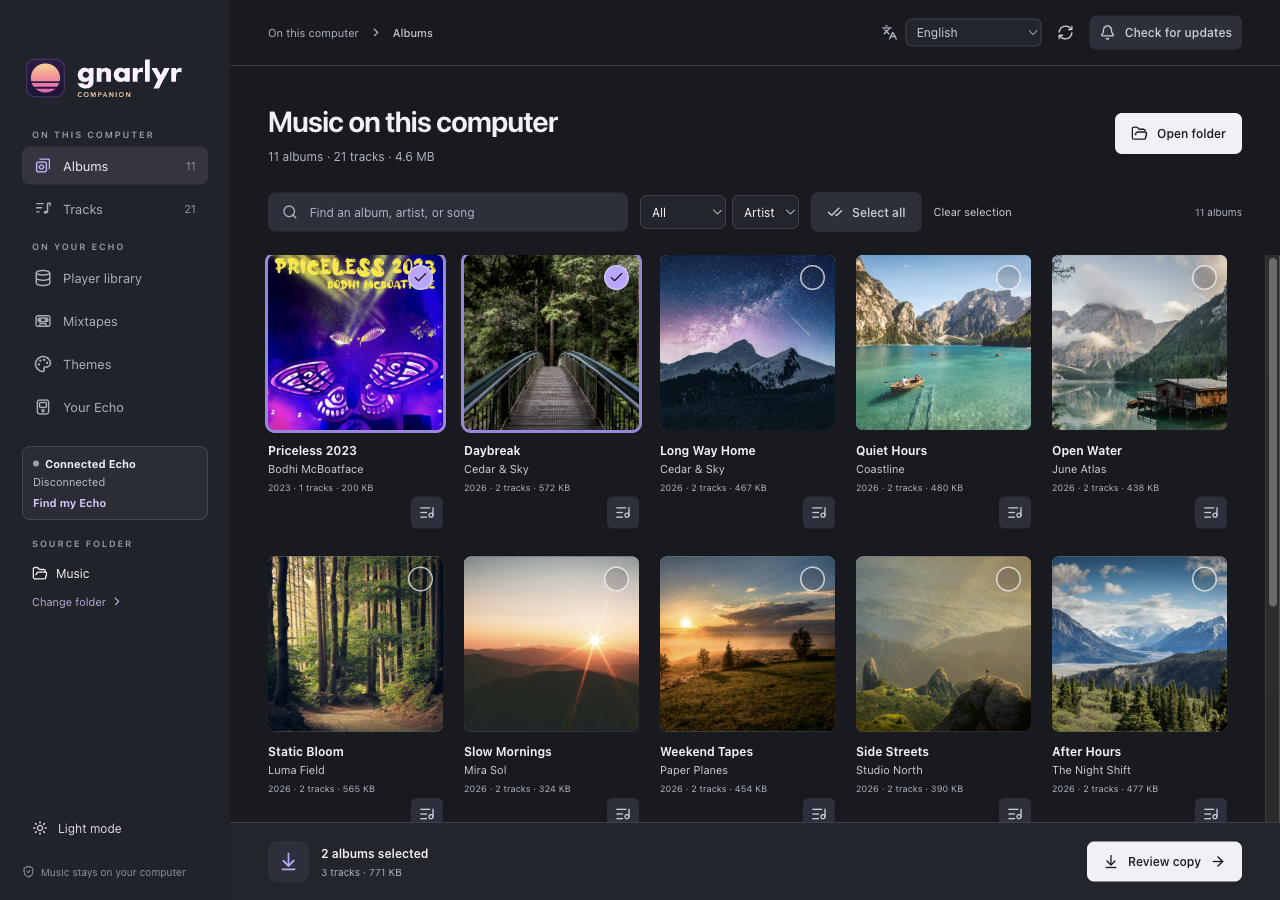
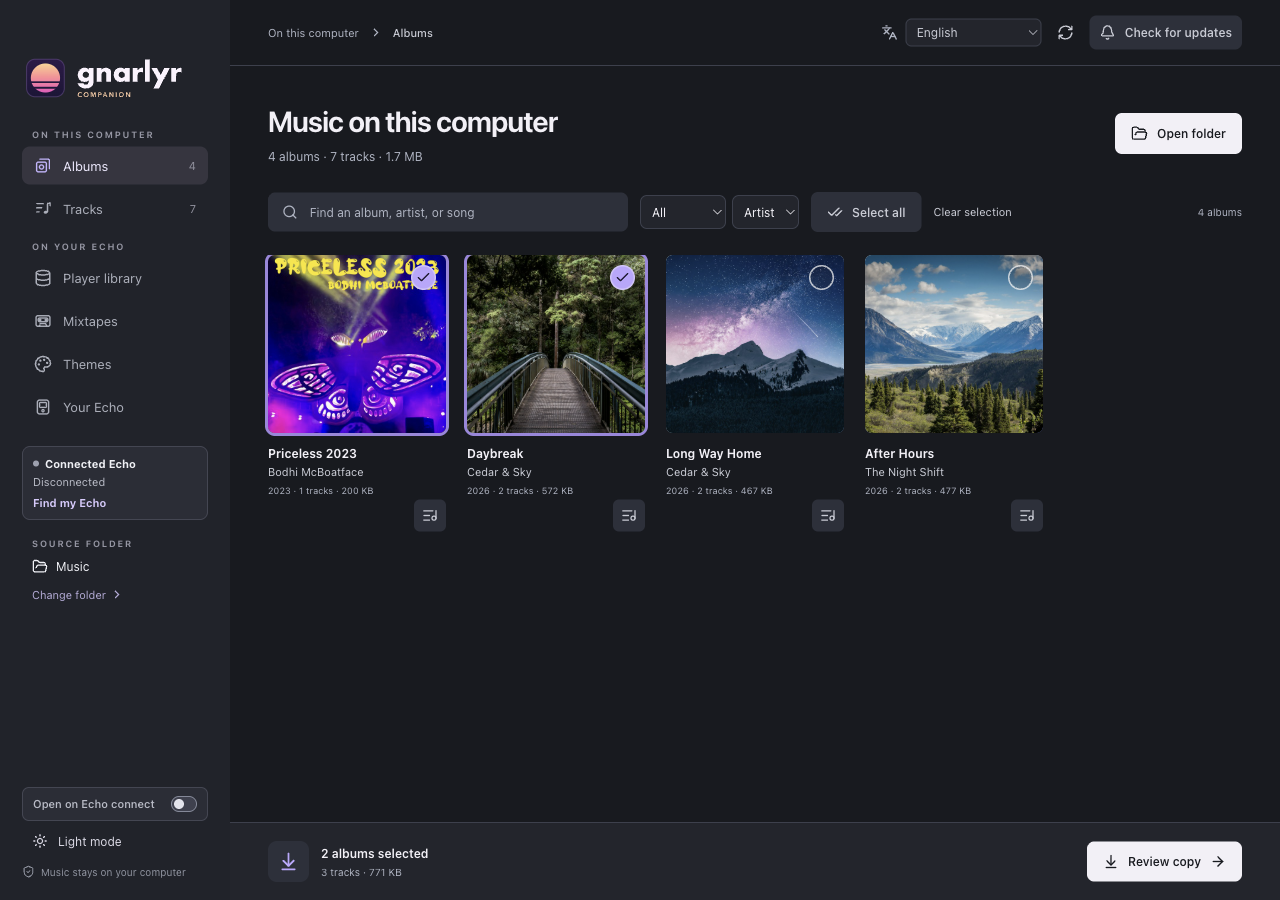
Refresh website screenshots for Gnarlyr Companion

diff --git a/site/companion.html b/site/companion.html
@@ -3,8 +3,8 @@
 <script src="analytics.js" defer data-website-id="7776169d-25f5-4420-bed8-810b4fbacdc7" data-domain="gnarlyr.com" data-paths="/,/index.html,/firmware.html,/docs.html,/hardware.html,/companion.html,/install.html,/build.html,/recovery.html,/languages.html,/themes.html,/comparison.html"></script>
 <meta property="og:site_name" content="Gnarlyr">
 <meta property="og:locale" content="en_US">
-<meta property="og:image" content="https://gnarlyr.com/assets/social/companion-3d170fef4d89.png">
-<meta property="og:image:secure_url" content="https://gnarlyr.com/assets/social/companion-3d170fef4d89.png">
+<meta property="og:image" content="https://gnarlyr.com/assets/social/companion-de9c5af4bb15.png">
+<meta property="og:image:secure_url" content="https://gnarlyr.com/assets/social/companion-de9c5af4bb15.png">
 <meta property="og:image:type" content="image/png">
 <meta property="og:image:width" content="1200">
 <meta property="og:image:height" content="630">
@@ -12,7 +12,7 @@
 <meta name="twitter:card" content="summary_large_image">
 <meta name="twitter:title" content="Gnarlyr Companion desktop app">
 <meta name="twitter:description" content="Browse local albums, review verified copies, make mixtapes, and manage the full-size ECHO&#x27;s library, settings, languages, and firmware.">
-<meta name="twitter:image" content="https://gnarlyr.com/assets/social/companion-3d170fef4d89.png">
+<meta name="twitter:image" content="https://gnarlyr.com/assets/social/companion-de9c5af4bb15.png">
 <meta name="twitter:image:alt" content="Gnarlyr Companion. The Gnarlyr Companion album browser.">
 </head><body class="companion-page"><a class="skip" href="#main">Skip to content</a><header class="header wrap">    <a class="brand" href="index.html" aria-label="Gnarlyr home">
       <img class="brand-mark" src="assets/brand/sunset-disc.svg" width="32" height="32" alt="" aria-hidden="true">
@@ -32,7 +32,7 @@
 <section class="doc-section" id="first-install" aria-labelledby="first-install-title"><h2 id="first-install-title">Install Gnarlyr from FiiO firmware</h2><p class="intro">For a Snowsky ECHO running FiiO firmware, open Your Echo → Installing Gnarlyr for the first time?</p><figure class="desktop-figure"><a class="desktop-shot" href="assets/companion/first-install.png" aria-label="Open companion first-install preparation at full size"><img src="assets/companion/first-install.png" width="1280" height="900" loading="lazy" decoding="async" alt="Gnarlyr Companion first-install preparation for a Snowsky ECHO running FiiO firmware"></a><figcaption>Prepare the firmware copy before restarting the player · select image to enlarge</figcaption></figure><p>Charge the player, back up its internal files, and connect it in USB storage mode. Choose a trusted <code>ECHOECHO.img</code> and review the detected player. On macOS, the app makes a contiguous copy, verifies it before and after remounting, and ejects the player’s drives.</p><p>On Windows and Linux, the beta checks the copied file and leaves ejection to you. The contiguous-copy and remount checks are available on macOS. After ejection, unplug USB and fully power off/on. Let installation and the first library scan finish, then check Settings → About. The <a href="install.html#first-install">normal file-copy route</a> is also available.</p></section>
 <section class="doc-section" id="updates" aria-labelledby="updates-title"><h2 id="updates-title">Check for releases</h2><p>The companion checks the official GitHub releases at startup. Check for updates runs another check. A newer app gets an update notice; a firmware release gets a link to its notes so you can compare it with Settings → About on the ECHO.</p><p>Dismiss a notice until the next release, or check again to bring it back. Downloads and installation stay under your control. Local music and player tools remain available offline.</p></section>
 <section class="doc-section" id="recovery" aria-labelledby="recovery-title"><h2 id="recovery-title">Recover an ECHO that won’t start</h2><p>Open Your Echo → Recover an Echo that won’t start. Choose a trusted ECHO-patched <code>rkdeveloptool</code>, a Gnarlyr image or the supported official FiiO 2.0.0 image, and a backup folder on your computer.</p><figure class="desktop-figure"><a class="desktop-shot" href="assets/companion/recovery.png" aria-label="Open companion recovery preparation at full size"><img src="assets/companion/recovery.png" width="1280" height="900" loading="lazy" decoding="async" alt="Gnarlyr Companion showing ECHO recovery preparation"></a><figcaption>Review the recovery files before writing · sample player folders</figcaption></figure><p>After you confirm the detected Snowsky ECHO and the trusted recovery tool, the app reads both firmware slots twice into a private backup and compares them. It writes slot 2 and verifies the readback, then does the same for slot 1. Both must match before it sends a restart.</p><p>Keep at least 320 MiB free for retained backups and readbacks. The recovery executable and any USB drivers must be installed separately; Windows needs WinUSB for the maskrom device. Recovery remains experimental on Linux and Windows. Follow the <a href="recovery.html">ECHO recovery guide</a> for the button sequence and exact tool requirements.</p><details><summary>If a recovery session was interrupted</summary><div class="answer"><p>An interrupted-session message means a recovery process may still be active. Keep the backup. Close all recovery apps and tools, then restart the computer. Disconnect the player, press RST, and enter maskrom again.</p><p>Remove only the session-lock file named in the message, then review a fresh recovery attempt. Never remove that file while recovery is running.</p></div></details></section>
-<section class="doc-section" id="themes" aria-labelledby="themes-title"><h2 id="themes-title">Preview and install themes</h2><p class="intro">Try the bundled Pocket Scope and Desktop 98 demos, open or drop a <code>.gtheme</code> file, or choose Build from source to compile a version 2 pack from a local theme folder. Building and previews work offline, with no player connected.</p><figure class="desktop-figure"><a class="desktop-shot" href="assets/companion/themes.png" aria-label="Open Companion theme-pack preview at full size"><img src="assets/companion/themes.png" width="1280" height="900" loading="lazy" decoding="async" alt="Gnarlyr Companion previewing Pocket Scope with an Echo screen preview and artwork slots"></a><figcaption>Preview the pack’s Echo screen, artwork slots, and palette · select image to enlarge</figcaption></figure><p>For installation, connect your ECHO in USB storage mode and choose <strong>Find my Echo</strong> (or pick drives manually under Drive options). Companion reads installed packs, shows which theme is active on your player, verifies every installed file, and keeps a copy on your computer. Removal is limited to packs installed and recorded by Companion.</p><p>After ejecting your ECHO, open Settings → Display &amp; text → Theme on the player to preview and select the pack. <a href="themes.html">See custom theme screenshots and learn how to make your own →</a></p></section>
+<section class="doc-section" id="themes" aria-labelledby="themes-title"><h2 id="themes-title">Preview and install themes</h2><p class="intro">Browse Vice 86, Pocket Scope, and Desktop 98 in Themes. Open or drop a <code>.gtheme</code> file, or choose Build from source to compile a version 2 pack from a local theme folder. Building and previews work offline, with no player connected.</p><figure class="desktop-figure"><a class="desktop-shot" href="assets/companion/theme-store.png" aria-label="Open the Companion Theme Store at full size"><img src="assets/companion/theme-store.png" width="1280" height="900" loading="lazy" decoding="async" alt="The Gnarlyr Companion Theme Store showing Vice 86, Pocket Scope, and Desktop 98"></a><figcaption>Browse included theme packs and preview their artwork and palettes · select image to enlarge</figcaption></figure><p>For installation, connect your ECHO in USB storage mode and choose <strong>Find my Echo</strong> (or pick drives manually under Drive options). Companion reads installed packs, shows which theme is active on your player, verifies every installed file, and keeps a copy on your computer. Removal is limited to packs installed and recorded by Companion.</p><p>After ejecting your ECHO, open Settings → Display &amp; text → Theme on the player to preview and select the pack. <a href="themes.html">See custom theme screenshots and learn how to make your own →</a></p></section>
 <section class="doc-section" id="app-language" aria-labelledby="app-language-title"><h2 id="app-language-title">Change the desktop language</h2><p class="intro">Choose from 13 built-in interface languages, available offline.</p><p>The app uses your computer’s first supported language or falls back to English. Choose <strong>App language</strong> in the top bar to switch immediately. Your choice is saved for the next time you open the app.</p><p>Included languages are Afrikaans, Arabic, Bengali, Brazilian Portuguese, English, French, German, Hindi, Japanese, Russian, Simplified Chinese, Spanish, and Ukrainian. Text without a translation appears in English.</p><figure class="desktop-figure"><a class="desktop-shot" href="assets/companion/app-language.png" aria-label="Open Gnarlyr Companion in Spanish at full size"><img src="assets/companion/app-language.png" width="1280" height="900" loading="lazy" decoding="async" alt="Gnarlyr Companion album library in Spanish, with Priceless 2023 artwork"></a><figcaption>Spanish interface · the same local music library</figcaption></figure><p>For the ECHO itself, use the player language controls below.</p></section>
 <section class="doc-section" id="languages" aria-labelledby="languages-title"><h2 id="languages-title">Change the player language</h2><p class="intro">View translated text, check a language pack, and choose which language the player uses.</p><figure class="desktop-figure"><a class="desktop-shot" href="assets/companion/languages.png" aria-label="Open Gnarlyr Companion previewing a Spanish language pack at full size"><img src="assets/companion/languages.png" width="1280" height="900" loading="lazy" decoding="async" alt="Gnarlyr Companion previewing a Spanish language pack"></a><figcaption>Preview translated text before choosing a language · select image to enlarge</figcaption></figure><ol class="sequence"><li><strong>Choose the music drive.</strong> Select the inserted microSD card, or internal storage when you use no card.</li><li><strong>Match the firmware.</strong> Choose the local image currently installed on your ECHO so packs can be checked against its catalogue.</li><li><strong>Review and apply.</strong> Preview translations, load a checked pack, or save a language choice. Choose Firmware default to use the image’s default language. Eject every player drive to apply the change.</li></ol><p>Unavailable language controls explain which drive or firmware image to select first.</p><p>Download any of the six official language packs (Deutsch, Español, Français, 日本語, Português, 简体中文) directly from GitHub in one click inside Companion, or import a custom version 1 <code>.pack</code> file built with the <a href="languages.html">browser language-pack builder</a>.</p></section>
 <section class="doc-section" id="appearance" aria-labelledby="appearance-title"><h2 id="appearance-title">Choose light or dark mode</h2><p class="intro">Choose light or dark mode. The companion remembers the appearance you prefer, and a wireframe ECHO opens and closes the app.</p><figure class="desktop-figure"><a class="desktop-shot" href="assets/companion/library-light.png" aria-label="Open Gnarlyr Companion album library in light mode at full size"><img src="assets/companion/library-light.png" width="1280" height="900" loading="lazy" decoding="async" alt="Gnarlyr Companion album library in light mode"></a><figcaption>The same library in light mode · select image to enlarge</figcaption></figure></section>

diff --git a/site/recovery.html b/site/recovery.html
@@ -4,8 +4,8 @@
 <script src="analytics.js" defer data-website-id="7776169d-25f5-4420-bed8-810b4fbacdc7" data-domain="gnarlyr.com" data-paths="/,/index.html,/firmware.html,/docs.html,/hardware.html,/companion.html,/install.html,/build.html,/recovery.html,/languages.html,/themes.html,/comparison.html"></script>
 <meta property="og:site_name" content="Gnarlyr">
 <meta property="og:locale" content="en_US">
-<meta property="og:image" content="https://gnarlyr.com/assets/social/recovery-9c20a8a51e06.png">
-<meta property="og:image:secure_url" content="https://gnarlyr.com/assets/social/recovery-9c20a8a51e06.png">
+<meta property="og:image" content="https://gnarlyr.com/assets/social/recovery-3e32b63e9e79.png">
+<meta property="og:image:secure_url" content="https://gnarlyr.com/assets/social/recovery-3e32b63e9e79.png">
 <meta property="og:image:type" content="image/png">
 <meta property="og:image:width" content="1200">
 <meta property="og:image:height" content="630">
@@ -13,7 +13,7 @@
 <meta name="twitter:card" content="summary_large_image">
 <meta name="twitter:title" content="Recover a full-size SNOWSKY ECHO">
 <meta name="twitter:description" content="Use maskrom on a full-size ECHO that won&#x27;t start or mount over USB. Back up both firmware slots and verify the restore.">
-<meta name="twitter:image" content="https://gnarlyr.com/assets/social/recovery-9c20a8a51e06.png">
+<meta name="twitter:image" content="https://gnarlyr.com/assets/social/recovery-3e32b63e9e79.png">
 <meta name="twitter:image:alt" content="Recover a full-size ECHO. The firmware recovery screen in Gnarlyr Companion.">
 </head>
 <body>

diff --git a/tools/site_album_art.py b/tools/site_album_art.py
@@ -2,6 +2,7 @@
 import hashlib
 import json
 from pathlib import Path
+import sys
 import urllib.request
 
 CATALOG = Path(__file__).with_name("site_album_art.json")
@@ -38,4 +39,5 @@ def albums(indices=None):
 
 
 if __name__ == "__main__":
-    print(json.dumps(albums()))
+    indices = [int(index) for index in sys.argv[1:]]
+    print(json.dumps(albums(indices or None)))

diff --git a/site/README.md b/site/README.md
@@ -166,12 +166,12 @@ The supplied product screenshots identify all three as the Snowsky ECHO. Keep th
 The Companion page, screenshots, and social card are public. Shared navigation, the home-page promotion, and the sitemap link to it. The desktop screenshots are product assets under `site/assets/companion/`; they use a sample music library and synthetic player folders, never the owner’s player. Desktop images use a window frame rather than the firmware’s player outline.
 
 ```sh
-node tools/site_companion_screenshots.mjs --source-root /path/to/gnarlyr-companion
+node tools/site_companion_screenshots.mjs --source-root /path/to/gnarlyr-desktop
 ```
 
-Without `--source-root`, the script uses `../gnarlyr-companion` beside this checkout.
+Without `--source-root`, the script uses `../gnarlyr-desktop` beside this checkout.
 
-Requires Node 24+, ffmpeg and the companion’s installed dependencies. `tools/site_companion_screenshots.json` configures the viewport and thirteen captured views. The script rebuilds the app, launches its actual Electron interface with isolated Scratch user data, drives the GUI and confirms that sync preview changes no files, settings stay unchanged and no firmware is staged. All thirteen views render before public images are replaced. `--no-build` explicitly reuses an existing build; `--config` selects a different capture configuration. Dependencies come from the companion checkout’s existing installation. The capture checks for its estimated 1 GiB of working space before building and while creating sample albums; normal runs also follow the shared resource preflight. Use `--output` with a path under the project's Scratch directory to review the captures before replacing the site assets. The scenes include a Spanish interface and the player-library preparation review. The header uses the Sunset Disc, and the Themes fixture is built with the app’s hash-pinned theme tooling.
+Requires Node 24+, ffmpeg and the companion’s installed dependencies. `tools/site_companion_screenshots.json` configures the viewport, sample artwork, and fourteen views, including the Theme Store, an individual theme preview, and a Spanish interface. The script rebuilds the app and drives the Electron interface with isolated Scratch user data. It confirms that sync preview changes no files, settings stay unchanged, and no firmware is staged. It renders all requested views before replacing any public images. `--no-build` reuses an existing build and `--config` selects a different capture configuration. The capture checks for 1 GiB of working space before building and while creating sample albums. Use `--output` under the project's Scratch directory to review the captures before replacing the site assets. After updating the images, run `python3 tools/site_social.py` to refresh the Companion and Recovery link previews.
 
 The desktop app is developed in the private `gnarlyr-desktop` repository. The public page previews the beta. Add versioned [release assets](https://github.com/0xdoublesharp/gnarlyr/releases) when installers are ready. See the [desktop publishing requirements](../docs/downloads.md#desktop) for signing and distribution terms.
 
